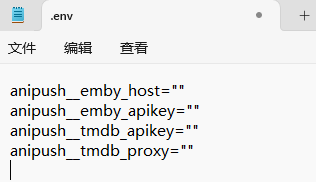
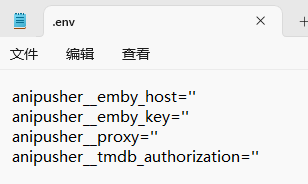
更新构造工具与readme

diff --git a/nonebot-plugin-anipusher/core/command/subscribe.py b/nonebot-plugin-anipusher/core/command/subscribe.py
@@ -1,4 +1,3 @@
-from click import group
 from nonebot.exception import FinishedException
 from nonebot import on_command, logger
 from nonebot.matcher import Matcher

diff --git a/README.md b/README.md
@@ -18,6 +18,8 @@ NoneBot AniPusher插件 是将特定Webhooks消息推送至QQ的插件<br>
 [![python](https://img.shields.io/badge/python-3.11+-blue.svg)](https://www.python.org/downloads/)
 </div>
 
+> [!IMPORTANT]
+> 重大更新，请务必查看新的配置方式与功能列表
 
 ## 📖 介绍
 
@@ -64,7 +66,7 @@ AniPusher插件 是将特定Webhook消息推送至QQ的插件<br>
 
 打开 nonebot2 项目根目录下的 `pyproject.toml` 文件, 在 `[tool.nonebot]` 部分追加写入
 
-    plugins = ["nonebot_plugin_AniPusher"]
+    plugins = ["nonebot-plugin-anipusher"]
 
 </details>
 
@@ -114,7 +116,7 @@ URL为Nonebot2的IP地址和端口下的路径`/webhook`<br>
 首先请确保你已在Emby服务器上安装了Webhooks插件（该插件目前已自动集成，应该不用再手动装了）<br>
 
 `Emby → 设置 → 通知 → 添加通知 -> Webhooks`<br>
-↓按如下配置↓<br>
+按如下配置<br>
 ![embv-config](./docs/emby-config.png)
 
 网址为Nonebot2的IP地址和端口下的路径`/webhook`<br>
@@ -127,26 +129,31 @@ Event目前只支持`媒体库-新媒体已添加`<br>
 ## ⚙ 插件配置
 
 配置项位于 nonebot2 项目根目录下的 `.env` 文件内<br>
-运行时如果没有检查到配置项，插件将自动在`.env` 文件内创建配置项，前往按照说明填入即可。<br>
-所有配置项均为非必选项，但建议填写。配置项缺失会导致对应功能被关闭。<br>
+如果没有配置插件项插件会自动跳过载入。<br>
+请至少配置空插件项（如下图所示）<br>
+![env](./docs/env-config.png)
 
 > [!IMPORTANT]
-> 缺少Emby_Host或Emby_ApiKey时，插件将无法验证视觉图有效性，不会下载或更新封面图片。<br>
-> 缺少Tmdb_ApiKey时，插件将无法验证TMDB ID,导致数据无法存入数据库，无法订阅对应内容。<br>
-> 缺少Tmdb_Proxy时，插件将仅尝试直连TMDB API,如失败则无法验证TMDB ID,导致数据无法存入数据库，无法订阅对应内容。<br>
+> 缺少anipusher__emby_host或anipusher__emby_key会导致无法下载Emby服务器上的图片，其他渠道图片依旧可用<br>
+> 缺少anipusher__tmdb_authorization时，插件将无法验证TMDB ID,导致数据无法存入综合数据库并且无法使用订阅命令。<br>
+> 缺少anipusher__proxy时，插件会在初始化时尝试直连TMDB，如果连接测试失败，TMDB相关功能也会关闭。<br>
 
 | 配置项 | 必填 | 默认值 | 说明 |
 |:----|:----:|:----:|:----:|
-| anipush__emby_host | 否 | 无 | Emby的服务器地址（请勿填写中转地址）|
-| anipush__emby_apikey | 否 | 无 | Emby服务器-高级-API密钥中生成的密钥 |
-| anipush__tmdb_apikey | 否 | 无 | TMDB用户的ApiKey|
-| anipush__tmdb_proxy | 否 | 无 | TMDB代理，如不填写则不使用代理 |
+| anipusher__emby_host | 否 | 无 | Emby的服务器地址（请勿填写中转地址）|
+| anipusher__emby_key | 否 | 无 | Emby服务器-高级-API密钥中生成的密钥 |
+| anipusher__tmdb_authorization | 否 | 无 | TMDB用户的ApiKey|
+| anipusher__proxy | 否 | 无 | TMDB代理，如不填写则不使用代理 |
 
 ## 🎉 使用
 ### 指令表
 | 指令 | 权限 | 需要@ | 范围 | 说明 |
 |:-----|:----:|:----:|:----:|:----|
-| 注册Emby推送 | ALL | 否 | 私聊/群聊 | 群聊：发送指令后即将群组添加到Emby更新消息推送列表中，有新消息时将消息推送到群内<br>私聊：发送指令后即将用户添加到Emby更新消息推送列表中 |
-| 注册AniRSS推送 | ALL | 否 | 私聊/群聊 | 群聊：发送指令后即将群组添加到AniRSS更新消息推送列表中，有新消息时将消息推送到群内<br>私聊：发送指令后即将用户添加到AniRSS更新消息推送列表中 |
-| 取消Emby推送 | ALL | 否 | 私聊/群聊 | 群聊：发送指令后关闭群组更新消息推送，不再接收推送<br>私聊：发送指令后关闭用户更新消息推送，不再接收推送 |
+| 启用EMBY推送 | ALL | 否 | 私聊/群聊 | 群聊：发送指令后即将群组添加到Emby更新消息推送列表中，有新消息时将消息推送到群内<br>私聊：发送指令后即将用户添加到Emby更新消息推送列表中 |
+| 启用AniRSS推送 | ALL | 否 | 私聊/群聊 | 群聊：发送指令后即将群组添加到AniRSS更新消息推送列表中，有新消息时将消息推送到群内<br>私聊：发送指令后即将用户添加到AniRSS更新消息推送列表中 |
+| 取消EMBY推送 | ALL | 否 | 私聊/群聊 | 群聊：发送指令后关闭群组更新消息推送，不再接收推送<br>私聊：发送指令后关闭用户更新消息推送，不再接收推送 |
 | 取消AniRSS推送 | ALL | 否 | 私聊/群聊 | 群聊：发送指令后关闭群组更新消息推送，不再接收推送<br>私聊：发送指令后关闭用户更新消息推送，不再接收推送 |
+| 屏蔽推送 | ALL | 否 | 私聊/群聊 | 任何范围用户发送命令后,推送服务将被暂停,但记录服务仍在运行，使用重启推送命令后重启 |
+| 重启推送 | ALL | 否 | 私聊/群聊 | 任何范围用户发送命令后,插件会重载推送对象，重启推送服务 |
+| 订阅/取消订阅 | ALL | 否 | 私聊/群聊 | 群聊：使用订阅/取消订阅命令后在群组推送时会@您，私聊：程序只会在EMBY/ANISS推送功能开启时推送您订阅的番剧更新信息，没有订阅的则不会推送 |
+
